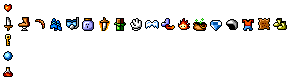
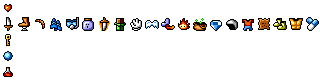
Stupid shop bug still there, damn it

diff --git a/src/shop.js b/src/shop.js
@@ -115,13 +115,14 @@ export class Shop {
                                         
                                     this.progress.addCoins(-PRICES[k]);
 
-                                    this.deactivate();
                                     addItemDescription(this.loc, this.globalMessage, 
                                         ITEM_TYPES[k], ITEM_IDS[k]);
                                     this.itemWaitTime = ITEM_WAIT;
 
                                     pl.setObtainItemPose(ITEM_TYPES[k], // This was i before for some reason
                                         ITEM_TYPES[k] == ChestType.Item ? ITEM_IDS[k] : 0);
+
+                                    this.deactivate();
 
                                     // Sound effect
                                     ev.audio.playSample(ev.assets.samples["treasure"], 0.50);
@@ -156,7 +157,7 @@ export class Shop {
         }
 
         return buttons;
-    }
+    }  
 
 
     disableButtons() {

diff --git a/src/progress.js b/src/progress.js
@@ -29,6 +29,13 @@ export const ItemType = {
 
     DreamMap: 16,
     RunningBoots: 17,
+    Chestplate: 18,
+    Pills: 19,
+    TreasureTracker: 20,
+    
+    Dummy: 21,
+    GoldenSword: 22,
+    GoldenBoomerang: 23,
 };
 
 
@@ -104,12 +111,17 @@ export class GameProgress {
         this.health = 6;
         if (this.hasItem(ItemType.FairyDust)) {
 
-            this.health = Math.max(this.maxHealth, 12);
+            this.health = Math.min(this.maxHealth, 12);
         }
     }
 
 
     reduceHealth(amount) {
+
+        if (this.hasItem(ItemType.Chestplate)) {
+
+            amount = Math.max(1, amount-1);
+        }
 
         this.health = Math.max(0, this.health - amount);
     }
@@ -134,6 +146,11 @@ export class GameProgress {
 
 
     addHealth(amount) {
+
+        if (this.hasItem(ItemType.Pills)) {
+
+            amount *= 2;
+        }
 
         this.health = Math.min(this.maxHealth, this.health + amount);
     }
